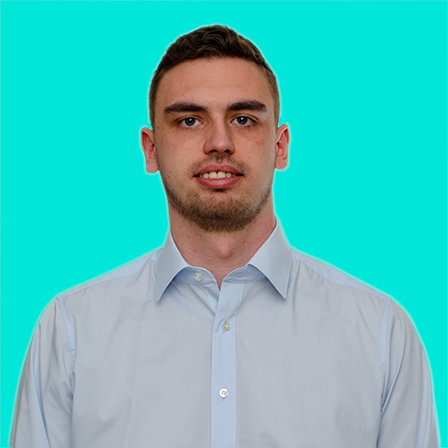
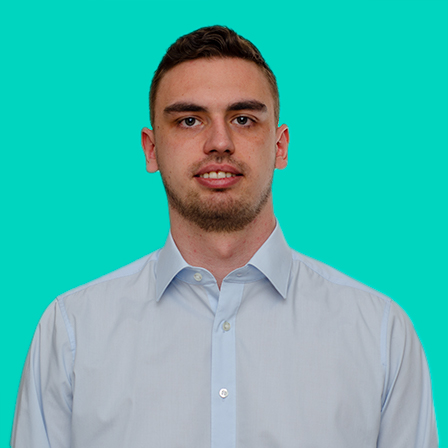
Fix color differences

diff --git a/components/helpers/SkillsHex.vue b/components/helpers/SkillsHex.vue
@@ -151,7 +151,7 @@ export default {
   width: 100%;
   padding: 5%;
   box-sizing: border-box;
-  background-color: #81e6d9;
+  background-color: #2dd4bf;
   font-weight: 300;
   -webkit-transition: -webkit-transform 0.2s ease-out, opacity 0.3s ease-out;
   transition: transform 0.2s ease-out, opacity 0.3s ease-out;

diff --git a/components/References.vue b/components/References.vue
@@ -40,7 +40,7 @@ export default {
       autoplayTimeout: 3500,
       loop: true,
       perPage: 1,
-      paginationActiveColor: '#81e6d9',
+      paginationActiveColor: '#2dd4bf',
       paginationColor: '#fff',
     },
   }),

diff --git a/components/helpers/VerticalTimeline.vue b/components/helpers/VerticalTimeline.vue
@@ -145,7 +145,7 @@ export default {
     content: '';
     position: absolute;
     left: -16px;
-    border-left: 1px solid #81e6d9;
+    border-left: 1px solid #2dd4bf;
     height: 100%;
     width: 1px;
 }

diff --git a/components/AboutMe.vue b/components/AboutMe.vue
@@ -42,6 +42,6 @@
 
 <style scoped>
 img {
-  box-shadow: 20px 20px 0 -3px #1a202c, 20px 20px #81e6d9;
+  box-shadow: 20px 20px 0 -3px #1a202c, 20px 20px #2dd4bf;
 }
 </style>

diff --git a/nuxt.config.js b/nuxt.config.js
@@ -76,7 +76,7 @@ export default {
 
   loadingIndicator: {
     name: 'cube-grid',
-    color: '#81e6d9',
+    color: '#2dd4bf',
     background: '#1a202c',
   },
 
